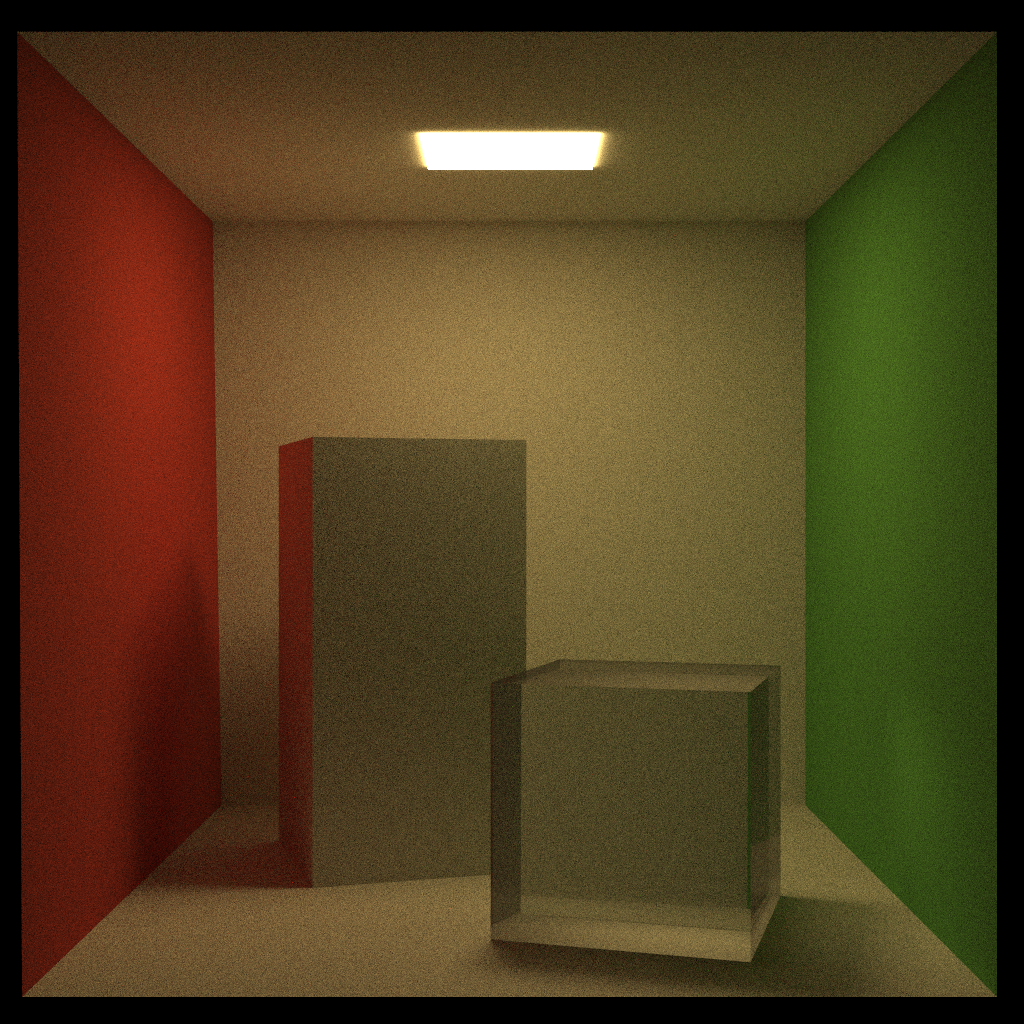
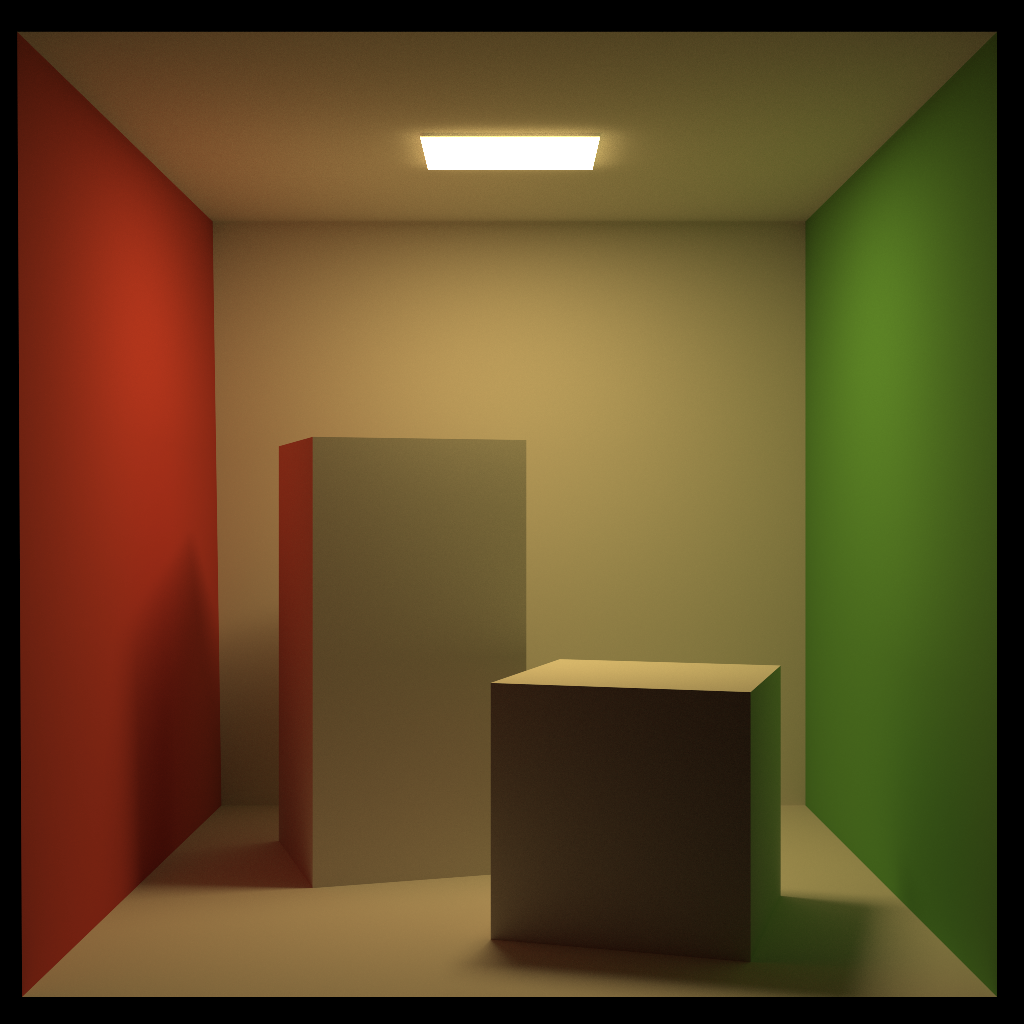
Update original cornell box rendering

diff --git a/pa3/README.md b/pa3/README.md
@@ -60,7 +60,7 @@ The following are several key features of my path tracer.
 The following are several [Cornell Box](https://en.wikipedia.org/wiki/Cornell_box) renders using modified materials from the [Williams graphics dataset ](http://graphics.cs.williams.edu/data/meshes.xml) to demonstrate several different material types. The modified configuration, geometry, and material files are available in the [config](config) and [scenes](scenes) directories. Several convenience scripts demonstrating the CLI usage are available in the [scripts](scripts) directory
 
 
-| Original - ? Samples | Glossy - 300 Samples | Glass - 1000 Samples | Spheres - 3000 Samples | Water - 1000 Samples |
+| Original - 1500 Samples | Glossy - 300 Samples | Glass - 1000 Samples | Spheres - 3000 Samples | Water - 1000 Samples |
 |:--------------------:|:--------------------:|:--------------------:|:-------------------:|:--------------------:|
 |![](images/cornell-original.png)|![](images/cornell-glossy.png)|![](images/cornell-glass.png)|![](images/cornell-spheres.png)|![](images/cornell-water.png)|
 
@@ -69,6 +69,8 @@ Here are several more renderings of scenes from the [Williams graphics dataset ]
 | Lost Empire - 250 Samples | Rungholt - 64 Samples |
 |:--------------------:|:--------------------:|
 |![](images/lost-empire.png)|![](images/rungholt.png)|
+
+**Note:** These images were rendered until they were "good enough" - often much longer than necessary as I left the path tracer running on a Digital Ocean instance.
 
 ## Resources
 
